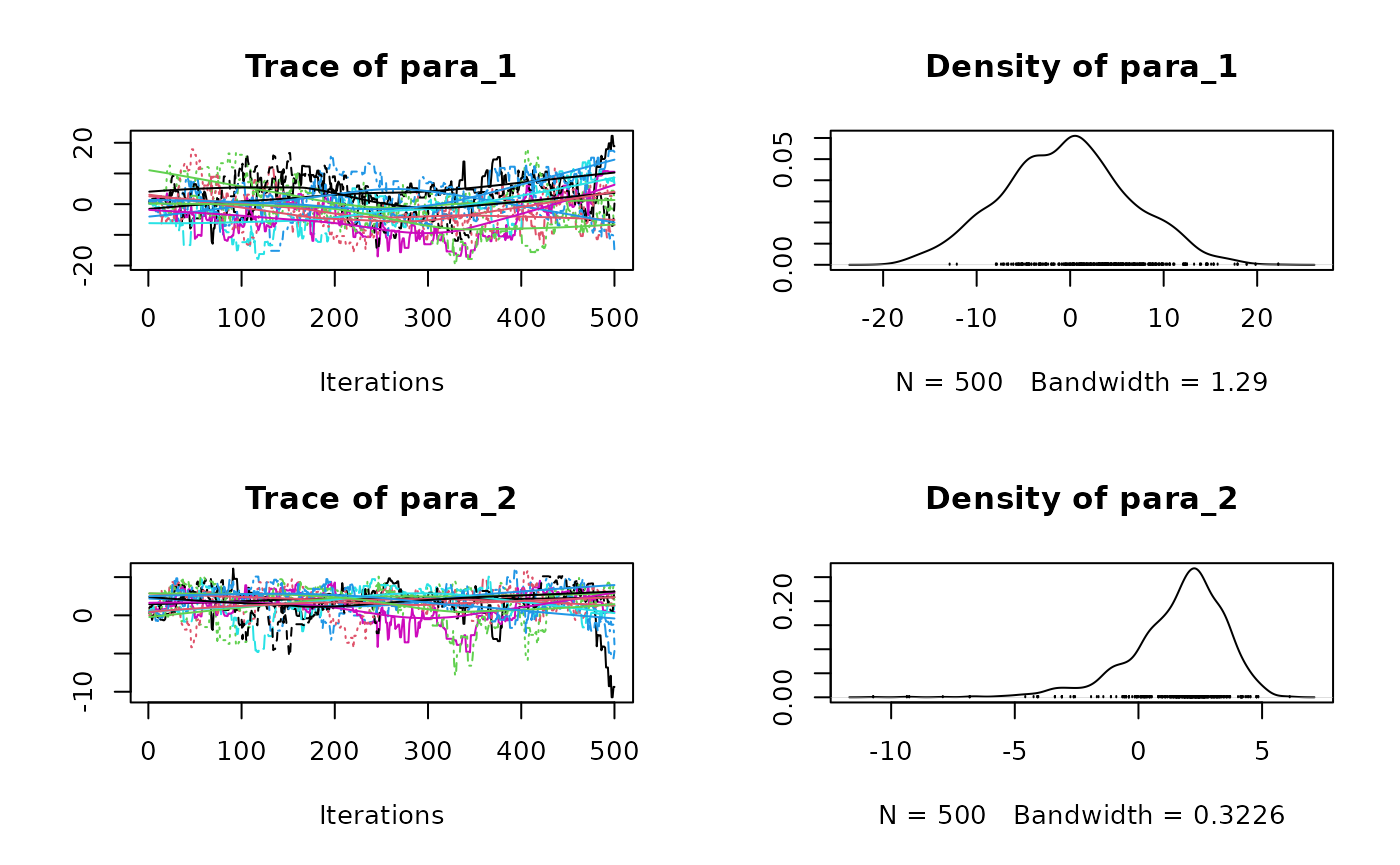
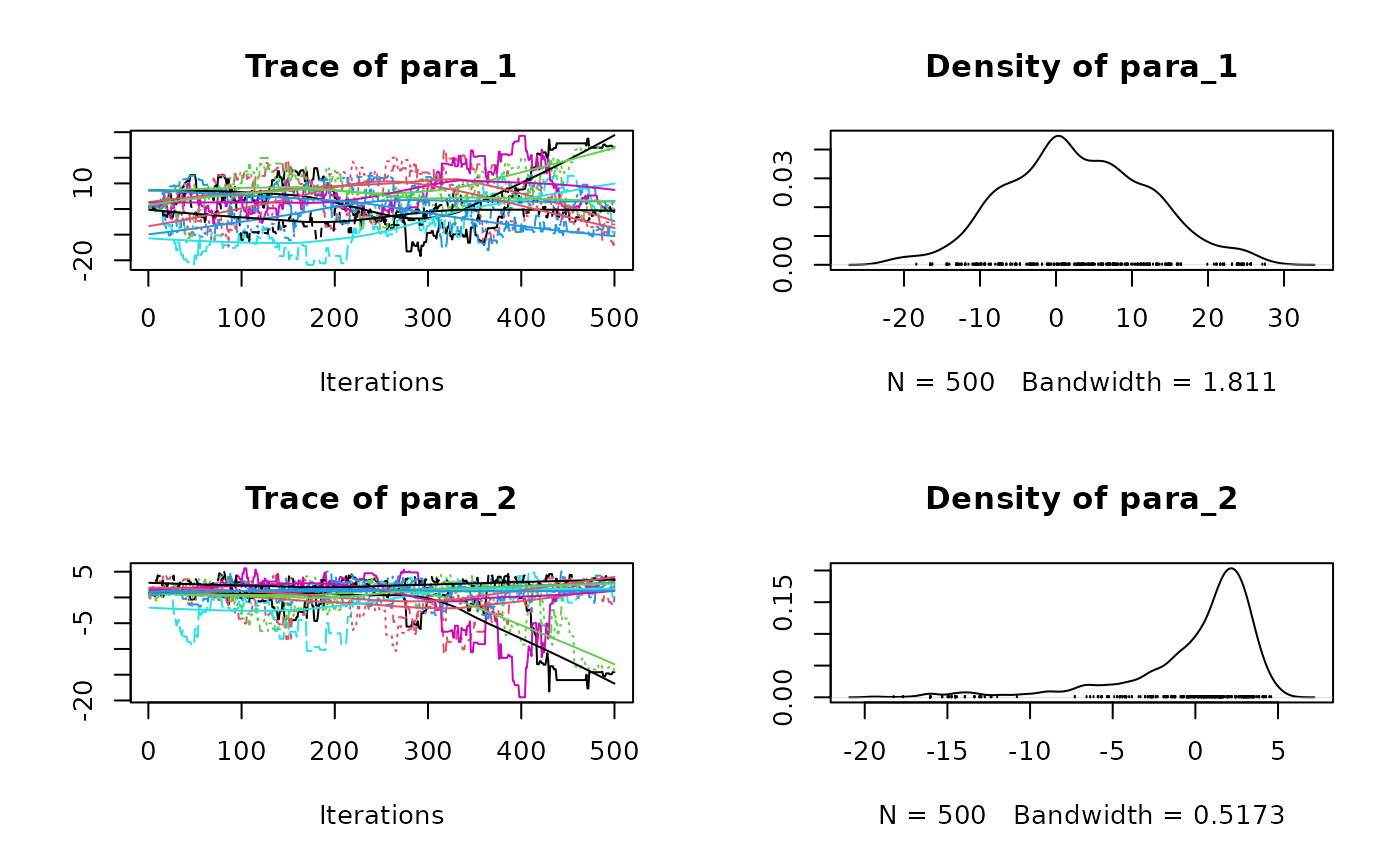
Deploying to gh-pages from @ Bisaloo/mcmcensemble@326a1a0718e65f210181e7b1a1f3435017765f33 🚀

diff --git a/articles/blog/blog_v3.html b/articles/blog/blog_v3.html
@@ -34,7 +34,7 @@
       </button>
       <span class="navbar-brand">
         <a class="navbar-link" href="../../index.html">mcmcensemble</a>
-        <span class="version label label-default" data-toggle="tooltip" data-placement="bottom" title="">3.1.0</span>
+        <span class="version label label-default" data-toggle="tooltip" data-placement="bottom" title="">3.1.0.9000</span>
       </span>
     </div>
 
@@ -124,7 +124,7 @@ present now.</p>
 <div class="sourceCode" id="cb1"><pre class="downlit sourceCode r">
 <code class="sourceCode R"><span><span class="kw"><a href="https://rdrr.io/r/base/library.html" class="external-link">library</a></span><span class="op">(</span><span class="va"><a href="https://hugogruson.fr/mcmcensemble/" class="external-link">mcmcensemble</a></span><span class="op">)</span></span>
 <span><span class="fu"><a href="https://rdrr.io/r/utils/packageDescription.html" class="external-link">packageVersion</a></span><span class="op">(</span><span class="st">"mcmcensemble"</span><span class="op">)</span></span></code></pre></div>
-<pre><code><span><span class="co">## [1] '3.1.0'</span></span></code></pre>
+<pre><code><span><span class="co">## [1] '3.1.0.9000'</span></span></code></pre>
 <div class="section level2">
 <h2 id="sample-from-a-non-uniform-distribution">Sample from a non-uniform distribution<a class="anchor" aria-label="anchor" href="#sample-from-a-non-uniform-distribution"></a>
 </h2>
@@ -163,15 +163,15 @@ do:</p>
 <span><span class="co">## 1. Empirical mean and standard deviation for each variable,</span></span>
 <span><span class="co">##    plus standard error of the mean:</span></span>
 <span><span class="co">## </span></span>
-<span><span class="co">##     Mean    SD Naive SE Time-series SE</span></span>
-<span><span class="co">## a 1.2609 8.740  0.12360         1.1535</span></span>
-<span><span class="co">## b 0.5977 2.813  0.03978         0.3027</span></span>
+<span><span class="co">##      Mean    SD Naive SE Time-series SE</span></span>
+<span><span class="co">## a 0.30573 9.880  0.13973         1.2927</span></span>
+<span><span class="co">## b 0.03527 3.792  0.05363         0.4427</span></span>
 <span><span class="co">## </span></span>
 <span><span class="co">## 2. Quantiles for each variable:</span></span>
 <span><span class="co">## </span></span>
-<span><span class="co">##      2.5%    25%   50%   75%  97.5%</span></span>
-<span><span class="co">## a -15.525 -4.964 1.079 7.555 17.153</span></span>
-<span><span class="co">## b  -6.427 -1.048 1.397 2.671  4.353</span></span></code></pre>
+<span><span class="co">##     2.5%    25%    50%   75%  97.5%</span></span>
+<span><span class="co">## a -18.76 -6.733 0.3816 6.586 19.204</span></span>
+<span><span class="co">## b -11.41 -1.435 1.1781 2.682  4.329</span></span></code></pre>
 <div class="sourceCode" id="cb7"><pre class="downlit sourceCode r">
 <code class="sourceCode R"><span><span class="fu"><a href="https://rdrr.io/r/graphics/plot.default.html" class="external-link">plot</a></span><span class="op">(</span><span class="va">res</span><span class="op">$</span><span class="va">samples</span><span class="op">)</span></span></code></pre></div>
 <p><img src="blog_v3_files/figure-html/unnamed-chunk-2-1.png" width="700"></p>
@@ -200,15 +200,15 @@ Sobol sequence</a> available in the <a href="https://www.spacefillr.com/" class=
 <span><span class="co">## 1. Empirical mean and standard deviation for each variable,</span></span>
 <span><span class="co">##    plus standard error of the mean:</span></span>
 <span><span class="co">## </span></span>
-<span><span class="co">##          Mean    SD Naive SE Time-series SE</span></span>
-<span><span class="co">## para_1 -0.440 6.822  0.09647         0.6606</span></span>
-<span><span class="co">## para_2  1.611 1.920  0.02715         0.1689</span></span>
+<span><span class="co">##           Mean    SD Naive SE Time-series SE</span></span>
+<span><span class="co">## para_1 2.93060 9.384  0.13270         1.1834</span></span>
+<span><span class="co">## para_2 0.02642 3.984  0.05634         0.5557</span></span>
 <span><span class="co">## </span></span>
 <span><span class="co">## 2. Quantiles for each variable:</span></span>
 <span><span class="co">## </span></span>
-<span><span class="co">##           2.5%     25%     50%   75% 97.5%</span></span>
-<span><span class="co">## para_1 -13.388 -5.0461 -0.2725 3.908 12.66</span></span>
-<span><span class="co">## para_2  -3.251  0.6449  1.9390 2.885  4.49</span></span></code></pre>
+<span><span class="co">##          2.5%    25%   50%   75%  97.5%</span></span>
+<span><span class="co">## para_1 -14.37 -3.512 2.231 9.382 22.853</span></span>
+<span><span class="co">## para_2 -13.06 -1.078 1.326 2.514  4.188</span></span></code></pre>
 <div class="sourceCode" id="cb12"><pre class="downlit sourceCode r">
 <code class="sourceCode R"><span><span class="fu"><a href="https://rdrr.io/r/graphics/plot.default.html" class="external-link">plot</a></span><span class="op">(</span><span class="va">res</span><span class="op">$</span><span class="va">samples</span><span class="op">)</span></span></code></pre></div>
 <p><img src="blog_v3_files/figure-html/unnamed-chunk-3-1.png" width="700"></p>
@@ -251,14 +251,14 @@ short:</p>
 <span><span class="co">##    plus standard error of the mean:</span></span>
 <span><span class="co">## </span></span>
 <span><span class="co">##     Mean     SD Naive SE Time-series SE</span></span>
-<span><span class="co">## a 0.4660 0.3008  0.04254        0.01418</span></span>
-<span><span class="co">## b 0.6652 0.7889  0.11156        0.05735</span></span>
+<span><span class="co">## a 0.4068 0.4529  0.06404        0.02988</span></span>
+<span><span class="co">## b 0.5809 0.4287  0.06063        0.02890</span></span>
 <span><span class="co">## </span></span>
 <span><span class="co">## 2. Quantiles for each variable:</span></span>
 <span><span class="co">## </span></span>
-<span><span class="co">##       2.5%    25%    50%    75% 97.5%</span></span>
-<span><span class="co">## a  0.06052 0.2482 0.3372 0.6955 1.125</span></span>
-<span><span class="co">## b -0.40283 0.1989 0.4157 0.8969 3.029</span></span></code></pre>
+<span><span class="co">##      2.5%    25%    50%    75% 97.5%</span></span>
+<span><span class="co">## a -0.3453 0.1170 0.4451 0.6667 1.453</span></span>
+<span><span class="co">## b -0.4300 0.4385 0.6109 0.7678 1.455</span></span></code></pre>
 <div class="sourceCode" id="cb17"><pre class="downlit sourceCode r">
 <code class="sourceCode R"><span><span class="fu"><a href="https://rdrr.io/r/graphics/plot.default.html" class="external-link">plot</a></span><span class="op">(</span><span class="va">short</span><span class="op">$</span><span class="va">samples</span><span class="op">)</span></span></code></pre></div>
 <p><img src="blog_v3_files/figure-html/unnamed-chunk-4-1.png" width="700"></p>

diff --git a/articles/faq.html b/articles/faq.html
@@ -34,7 +34,7 @@
       </button>
       <span class="navbar-brand">
         <a class="navbar-link" href="../index.html">mcmcensemble</a>
-        <span class="version label label-default" data-toggle="tooltip" data-placement="bottom" title="">3.1.0</span>
+        <span class="version label label-default" data-toggle="tooltip" data-placement="bottom" title="">3.1.0.9000</span>
       </span>
     </div>
 
@@ -156,15 +156,15 @@ limits for the chains.</p>
 <span><span class="co">#&gt; 1. Empirical mean and standard deviation for each variable,</span></span>
 <span><span class="co">#&gt;    plus standard error of the mean:</span></span>
 <span><span class="co">#&gt; </span></span>
-<span><span class="co">#&gt;      Mean    SD Naive SE Time-series SE</span></span>
-<span><span class="co">#&gt; a -4.2953 7.998  0.14603         0.9195</span></span>
-<span><span class="co">#&gt; b  0.1612 3.524  0.06434         0.4024</span></span>
+<span><span class="co">#&gt;     Mean     SD Naive SE Time-series SE</span></span>
+<span><span class="co">#&gt; a -4.621 11.729   0.2141         1.0784</span></span>
+<span><span class="co">#&gt; b -2.126  6.839   0.1249         0.9295</span></span>
 <span><span class="co">#&gt; </span></span>
 <span><span class="co">#&gt; 2. Quantiles for each variable:</span></span>
 <span><span class="co">#&gt; </span></span>
-<span><span class="co">#&gt;      2.5%    25%    50%   75% 97.5%</span></span>
-<span><span class="co">#&gt; a -20.019 -10.34 -4.282 2.072 9.502</span></span>
-<span><span class="co">#&gt; b  -9.096  -1.25  1.436 2.554 4.349</span></span></code></pre></div>
+<span><span class="co">#&gt;     2.5%     25%     50%   75%  97.5%</span></span>
+<span><span class="co">#&gt; a -28.95 -13.072 -3.8362 3.809 17.211</span></span>
+<span><span class="co">#&gt; b -20.63  -4.627  0.3295 2.364  4.209</span></span></code></pre></div>
 <div class="sourceCode" id="cb3"><pre class="downlit sourceCode r">
 <code class="sourceCode R"><span><span class="fu"><a href="https://rdrr.io/r/graphics/plot.default.html" class="external-link">plot</a></span><span class="op">(</span><span class="va">res1</span><span class="op">$</span><span class="va">samples</span><span class="op">)</span></span></code></pre></div>
 <p><img src="faq_files/figure-html/unnamed-chunk-3-1.png" width="700"></p>
@@ -188,15 +188,15 @@ limits for the chains.</p>
 <span><span class="co">#&gt; 1. Empirical mean and standard deviation for each variable,</span></span>
 <span><span class="co">#&gt;    plus standard error of the mean:</span></span>
 <span><span class="co">#&gt; </span></span>
-<span><span class="co">#&gt;      Mean    SD Naive SE Time-series SE</span></span>
-<span><span class="co">#&gt; a -0.5138 11.23  0.20500          1.265</span></span>
-<span><span class="co">#&gt; b -0.9312  5.00  0.09128          0.722</span></span>
+<span><span class="co">#&gt;     Mean    SD Naive SE Time-series SE</span></span>
+<span><span class="co">#&gt; a -4.136 9.160  0.16723         0.8741</span></span>
+<span><span class="co">#&gt; b -0.236 4.078  0.07446         0.4401</span></span>
 <span><span class="co">#&gt; </span></span>
 <span><span class="co">#&gt; 2. Quantiles for each variable:</span></span>
 <span><span class="co">#&gt; </span></span>
-<span><span class="co">#&gt;     2.5%    25%      50%   75%  97.5%</span></span>
-<span><span class="co">#&gt; a -23.88 -8.050 -0.08813 6.703 20.291</span></span>
-<span><span class="co">#&gt; b -15.86 -2.985  1.03428 2.480  4.252</span></span></code></pre></div>
+<span><span class="co">#&gt;     2.5%     25%    50%   75%  97.5%</span></span>
+<span><span class="co">#&gt; a -22.63 -10.777 -3.657 3.218 11.823</span></span>
+<span><span class="co">#&gt; b -13.00  -1.561  1.179 2.444  4.324</span></span></code></pre></div>
 <div class="sourceCode" id="cb5"><pre class="downlit sourceCode r">
 <code class="sourceCode R"><span><span class="fu"><a href="https://rdrr.io/r/graphics/plot.default.html" class="external-link">plot</a></span><span class="op">(</span><span class="va">res2</span><span class="op">$</span><span class="va">samples</span><span class="op">)</span></span></code></pre></div>
 <p><img src="faq_files/figure-html/unnamed-chunk-5-1.png" width="700"></p>

diff --git a/authors.html b/authors.html
@@ -17,7 +17,7 @@
       </button>
       <span class="navbar-brand">
         <a class="navbar-link" href="index.html">mcmcensemble</a>
-        <span class="version label label-default" data-toggle="tooltip" data-placement="bottom" title="">3.1.0</span>
+        <span class="version label label-default" data-toggle="tooltip" data-placement="bottom" title="">3.1.0.9000</span>
       </span>
     </div>
 
@@ -100,13 +100,13 @@
 
     <p>Gruson H, Dejanic S, Scheidegger A (2024).
 <em>mcmcensemble: Ensemble Sampler for Affine-Invariant MCMC</em>.
-R package version 3.1.0, https://github.com/Bisaloo/mcmcensemble, <a href="https://hugogruson.fr/mcmcensemble/" class="external-link">https://hugogruson.fr/mcmcensemble/</a>. 
+R package version 3.1.0.9000, https://github.com/Bisaloo/mcmcensemble, <a href="https://hugogruson.fr/mcmcensemble/" class="external-link">https://hugogruson.fr/mcmcensemble/</a>. 
 </p>
     <pre>@Manual{,
   title = {mcmcensemble: Ensemble Sampler for Affine-Invariant MCMC},
   author = {Hugo Gruson and Sanda Dejanic and Andreas Scheidegger},
   year = {2024},
-  note = {R package version 3.1.0, https://github.com/Bisaloo/mcmcensemble},
+  note = {R package version 3.1.0.9000, https://github.com/Bisaloo/mcmcensemble},
   url = {https://hugogruson.fr/mcmcensemble/},
 }</pre>
 

diff --git a/news/index.html b/news/index.html
@@ -17,7 +17,7 @@
       </button>
       <span class="navbar-brand">
         <a class="navbar-link" href="../index.html">mcmcensemble</a>
-        <span class="version label label-default" data-toggle="tooltip" data-placement="bottom" title="">3.1.0</span>
+        <span class="version label label-default" data-toggle="tooltip" data-placement="bottom" title="">3.1.0.9000</span>
       </span>
     </div>
 
@@ -76,6 +76,9 @@
       <small>Source: <a href="https://github.com/Bisaloo/mcmcensemble/blob/HEAD/NEWS.md" class="external-link"><code>NEWS.md</code></a></small>
     </div>
 
+    <div class="section level2">
+<h2 class="page-header" data-toc-text="development version" id="mcmcensemble-development-version">mcmcensemble (development version)<a class="anchor" aria-label="anchor" href="#mcmcensemble-development-version"></a></h2>
+</div>
     <div class="section level2">
 <h2 class="page-header" data-toc-text="3.1.0" id="mcmcensemble-310">mcmcensemble 3.1.0<a class="anchor" aria-label="anchor" href="#mcmcensemble-310"></a></h2>
 <div class="section level3">

diff --git a/reference/MCMCEnsemble.html b/reference/MCMCEnsemble.html
@@ -20,7 +20,7 @@ Vrugt (2008)."><!-- mathjax --><script src="https://cdnjs.cloudflare.com/ajax/li
       </button>
       <span class="navbar-brand">
         <a class="navbar-link" href="../index.html">mcmcensemble</a>
-        <span class="version label label-default" data-toggle="tooltip" data-placement="bottom" title="">3.1.0</span>
+        <span class="version label label-default" data-toggle="tooltip" data-placement="bottom" title="">3.1.0.9000</span>
       </span>
     </div>
 

diff --git a/reference/mcmcensemble-package.html b/reference/mcmcensemble-package.html
@@ -18,7 +18,7 @@ with two different ways of creating proposals."><!-- mathjax --><script src="htt
       </button>
       <span class="navbar-brand">
         <a class="navbar-link" href="../index.html">mcmcensemble</a>
-        <span class="version label label-default" data-toggle="tooltip" data-placement="bottom" title="">3.1.0</span>
+        <span class="version label label-default" data-toggle="tooltip" data-placement="bottom" title="">3.1.0.9000</span>
       </span>
     </div>
 

diff --git a/404.html b/404.html
@@ -33,7 +33,7 @@
       </button>
       <span class="navbar-brand">
         <a class="navbar-link" href="https://bisaloo.github.io/mcmcensemble/index.html">mcmcensemble</a>
-        <span class="version label label-default" data-toggle="tooltip" data-placement="bottom" title="">3.1.0</span>
+        <span class="version label label-default" data-toggle="tooltip" data-placement="bottom" title="">3.1.0.9000</span>
       </span>
     </div>
 

diff --git a/articles/diagnostic-pkgs.html b/articles/diagnostic-pkgs.html
@@ -34,7 +34,7 @@
       </button>
       <span class="navbar-brand">
         <a class="navbar-link" href="../index.html">mcmcensemble</a>
-        <span class="version label label-default" data-toggle="tooltip" data-placement="bottom" title="">3.1.0</span>
+        <span class="version label label-default" data-toggle="tooltip" data-placement="bottom" title="">3.1.0.9000</span>
       </span>
     </div>
 

diff --git a/articles/index.html b/articles/index.html
@@ -17,7 +17,7 @@
       </button>
       <span class="navbar-brand">
         <a class="navbar-link" href="../index.html">mcmcensemble</a>
-        <span class="version label label-default" data-toggle="tooltip" data-placement="bottom" title="">3.1.0</span>
+        <span class="version label label-default" data-toggle="tooltip" data-placement="bottom" title="">3.1.0.9000</span>
       </span>
     </div>
 

diff --git a/reference/index.html b/reference/index.html
@@ -17,7 +17,7 @@
       </button>
       <span class="navbar-brand">
         <a class="navbar-link" href="../index.html">mcmcensemble</a>
-        <span class="version label label-default" data-toggle="tooltip" data-placement="bottom" title="">3.1.0</span>
+        <span class="version label label-default" data-toggle="tooltip" data-placement="bottom" title="">3.1.0.9000</span>
       </span>
     </div>
 

diff --git a/LICENSE.html b/LICENSE.html
@@ -17,7 +17,7 @@
       </button>
       <span class="navbar-brand">
         <a class="navbar-link" href="index.html">mcmcensemble</a>
-        <span class="version label label-default" data-toggle="tooltip" data-placement="bottom" title="">3.1.0</span>
+        <span class="version label label-default" data-toggle="tooltip" data-placement="bottom" title="">3.1.0.9000</span>
       </span>
     </div>
 

diff --git a/index.html b/index.html
@@ -39,7 +39,7 @@
       </button>
       <span class="navbar-brand">
         <a class="navbar-link" href="index.html">mcmcensemble</a>
-        <span class="version label label-default" data-toggle="tooltip" data-placement="bottom" title="">3.1.0</span>
+        <span class="version label label-default" data-toggle="tooltip" data-placement="bottom" title="">3.1.0.9000</span>
       </span>
     </div>
 
